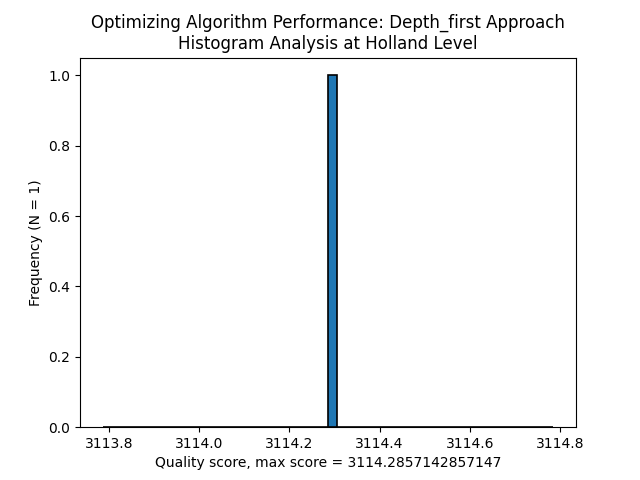
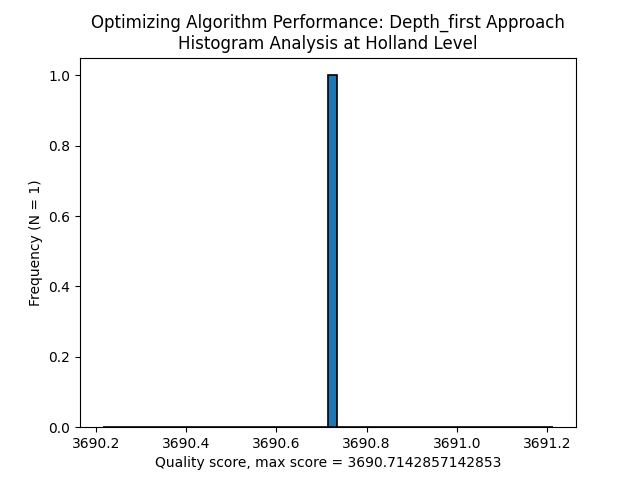
Fixed a bug in depth_first, changed style of greedy_search to comply with rest of the code. Also added docstrings and comments to greedy_search

diff --git a/code/algorithms/greedy_search.py b/code/algorithms/greedy_search.py
@@ -1,45 +1,66 @@
+# Import classes
 from code.classes.load import Load
 from code.classes.station import Station
 from code.classes.score import Score
+
+# Import functions
 from code.functions.elements import get_random_station
 
 class Greedy_search:
     def __init__(self, level):
         """
-        Retrieves file name and loads in the connections between stations.
-        Initializes a trajectories list to keep track of found trajectories,
-        initializes a total time counter for the score calculation,
-        and sets the number of colors for trajectories.
+        Initialse variables needed for algorithm and load all data
+
+        pre: file name for data loading
+        post: loads (the connections between) stations into memory,
+        initializes a trajectories list of found trajectories and a 
+        time counter.
         """
         self.level = level
+
+        # Load data into memory
         self.connections = Load(level).objects
+
+        # Counter for the score calculation
+        # BUG, gebruikt waar??
         self.total_time_for_trajectories = 0
+
+        # List to keep track of found trajectories in railnetwork
         self.trajectories = []
 
     def solve(self, max_trajectories, timeframe):
         """
-        Generates (max_trajectories) number of routes and adds the routes to the list of routes.
+        Generates (max_trajectories) number of trajectories and adds it to the list of trajectories.
 
         pre: amount of trajectories, amount of time for one trajectory
         post: qualityscore (K) and all trajectories (lists in a list)
         """
-
+        # Iterate over number of allowed trajectories
         for i in range(max_trajectories):
-            route = self.generate_trajectory(timeframe)
-            self.trajectories.append(route)
-            self.update_trajectories(route)
 
+            # Add a new trajectory to railnetwork
+            trajectory = self.generate_trajectory(timeframe)
+            self.trajectories.append(trajectory)
+            self.calculate_time_trajectory(trajectory)
+
+        # Calculate qualityscore of railnetwork
         score = Score(self.level, self.trajectories, self.total_time_for_trajectories)
         print(float(score.K))
         return (float(score.K), self.trajectories)
 
     def generate_trajectory(self, timeframe):
         """
-        Picks a random station to start from and then makes a route shorter or equal to timeframe;
-        that does not use the same connection twice.
+        Creates a new trajectory from a random starting station within the timeframe. 
+        Trajectory does not have the same connection twice.
+
+        pre: maximum amount of time trajectory may be
+        post: returns a trajectory without duplicates
         """
+        # Get starting station and add to trajectory
         current_station = get_random_station(self.connections)
-        route = [current_station]
+        trajectory = [current_station]
+
+        # Keep track of time
         total_time = 0
         visited_stations = set()
 
@@ -53,38 +74,48 @@ class Greedy_search:
             connection_distance = self.connections[current_station].get_distance(next_station)
 
             if total_time + connection_distance <= timeframe:
-                route.append(next_station)
+                trajectory.append(next_station)
                 total_time += connection_distance
                 visited_stations.add(current_station)
                 current_station = next_station
             else:
                 break
 
-        return route
+        return trajectory
 
     def choose_next_station(self, current_station, visited_stations):
         """
-        Adds a new station to the route if it's the closest neighbor and the station was not visited previously.
+        Adds a new station to the trajectory if it's the closest neighbor and the station was not visited previously.
+
+        pre: one stations and a list of stations
+        post: return
         """
+        # Retrieves stations that are connected to current station
         connections_list = self.connections[current_station].get_connections()
+
+        # Create a list of connections to current station that have not yet been visited
         unvisited_neighbors = [neighbor for neighbor in connections_list if neighbor not in visited_stations]
 
         # If a dead end is reached
         if not unvisited_neighbors:
             return None
 
+        # Return the closest univisited station to the current station
         return min(unvisited_neighbors, key=lambda x: self.connections[current_station].get_distance(x))
 
-    def update_trajectories(self, route):
+    def calculate_time_trajectory(self, trajectory) -> None:
         """
-        Update the list of trajectories by appending the new route and color.
-        """
-        self.total_time_for_trajectories += sum(self.calculate_total_time(route))
+        Calculates total amount of time of the trajectory
 
-        print(f"Found route {len(self.trajectories)}: {route}")
+        pre: list of connected stations
+        """
+        self.total_time_for_trajectories += sum(self.time_between_stations(trajectory))
 
-    def calculate_total_time(self, route):
+    def time_between_stations(self, trajectory) -> list:
         """
-        Retrieves the sum of the distances between stations.
+        Returns a list of the distances between stations.
+
+        pre: list of connected stations
+        post: list of times between stations
         """
-        return [self.connections[route[i]].get_distance(route[i + 1]) for i in range(len(route) - 1)]
+        return [self.connections[trajectory[i]].get_distance(trajectory[i + 1]) for i in range(len(trajectory) - 1)]

diff --git a/code/algorithms/depth_first.py b/code/algorithms/depth_first.py
@@ -239,8 +239,10 @@ class Depth_first():
 
         for trajectory in railnetwork:
             self.add_to_trajectory_class(trajectory)
-            _time - self.archive.get_time()
+            _time = self.archive.get_time()
+            #TEST print(f'_time in loop =', _time)
             total_time += _time
+        #TEST print(f'TOTALE TIJD;', total_time)
         return total_time
 # depth_first max_trajectories aantal keer laten runnen en dan steeds de laatste pakken??
 
